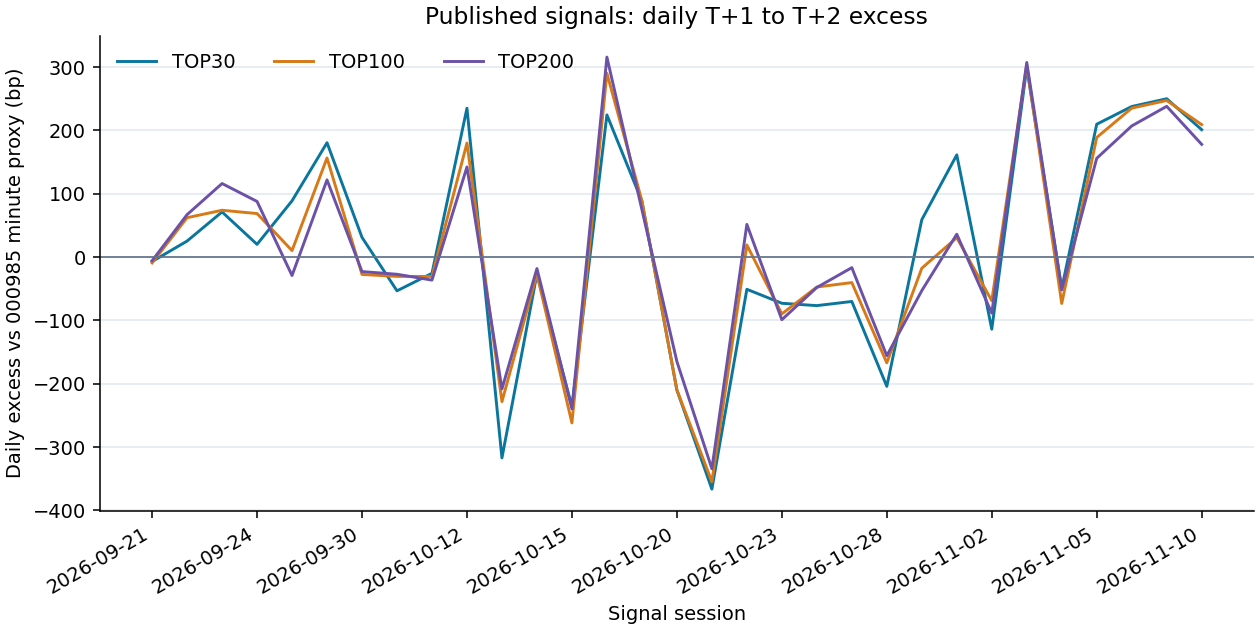
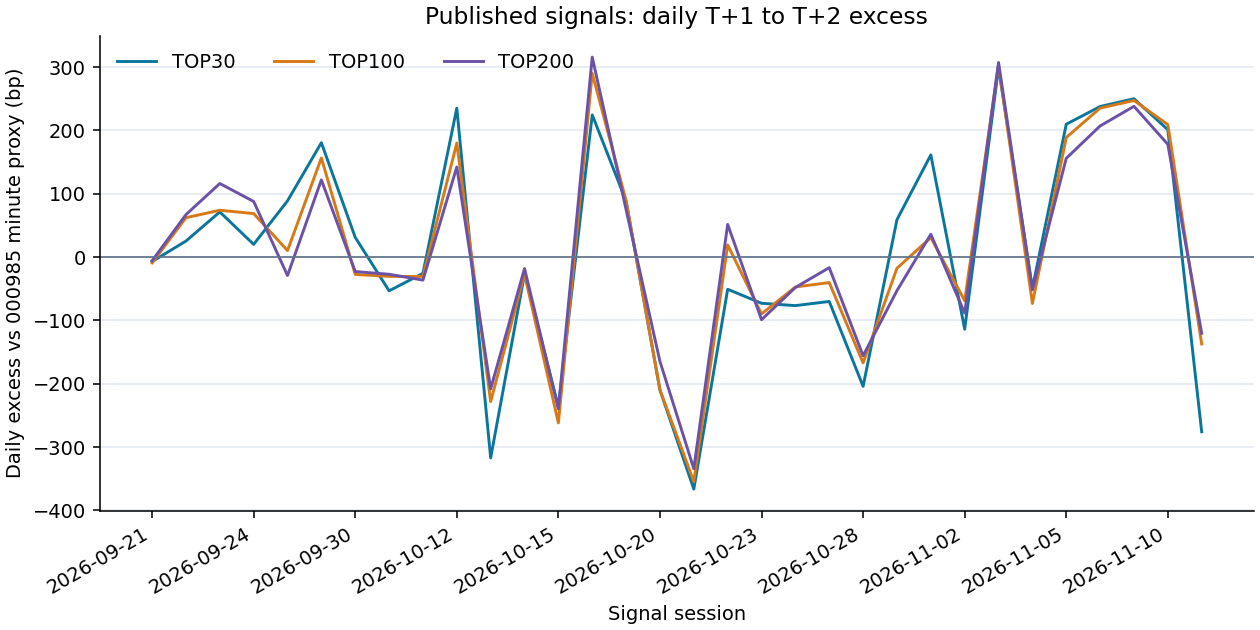
Update published signal performance through 2026-11-13

diff --git a/README.md b/README.md
@@ -17,13 +17,13 @@ CSV 编码为 UTF-8 BOM，按 `signal` 降序排列。
 <!-- PUBLIC_PERFORMANCE_START -->
 ## 已发布信号的历史表现
 
-仅统计本仓库 `signals/YYYY-MM-DD.csv` 已上传且买卖两日行情均完整的信号；截至 **2026-11-12**，共有 **31** 个已完成信号日，另有 **2** 个待结算或数据未齐。
+仅统计本仓库 `signals/YYYY-MM-DD.csv` 已上传且买卖两日行情均完整的信号；截至 **2026-11-13**，共有 **32** 个已完成信号日，另有 **1** 个待结算或数据未齐。
 
 | 组合 | 已完成信号日 | 组合累计收益 | 000985同期收益 | 累计超额 |
 |---|---:|---:|---:|---:|
-| TOP30 | 31 | -8.89% | -12.67% | +4.33% |
-| TOP100 | 31 | -9.03% | -12.67% | +4.17% |
-| TOP200 | 31 | -8.77% | -12.67% | +4.47% |
+| TOP30 | 32 | -12.95% | -14.15% | +1.40% |
+| TOP100 | 32 | -11.82% | -14.15% | +2.72% |
+| TOP200 | 32 | -11.42% | -14.15% | +3.19% |
 
 ![TOP30、TOP100、TOP200 累计超额净值](performance/excess_nav.png)
 
@@ -33,7 +33,6 @@ CSV 编码为 UTF-8 BOM，按 `signal` 降序排列。
 
 | 信号日 | 卖出日 | TOP30 | TOP100 | TOP200 |
 |---|---|---:|---:|---:|
-| 2026-10-28 | 2026-10-30 | -204.01 | -166.91 | -155.69 |
 | 2026-10-29 | 2026-11-02 | +59.10 | -17.56 | -52.90 |
 | 2026-10-30 | 2026-11-03 | +161.39 | +30.84 | +36.14 |
 | 2026-11-02 | 2026-11-04 | -113.77 | -68.85 | -88.39 |
@@ -43,6 +42,7 @@ CSV 编码为 UTF-8 BOM，按 `signal` 降序排列。
 | 2026-11-06 | 2026-11-10 | +237.77 | +235.25 | +207.06 |
 | 2026-11-09 | 2026-11-11 | +250.04 | +247.29 | +238.07 |
 | 2026-11-10 | 2026-11-12 | +201.17 | +209.19 | +178.03 |
+| 2026-11-11 | 2026-11-13 | -275.69 | -137.14 | -120.24 |
 
 ![TOP30、TOP100、TOP200 逐日超额](performance/daily_excess.png)
 
